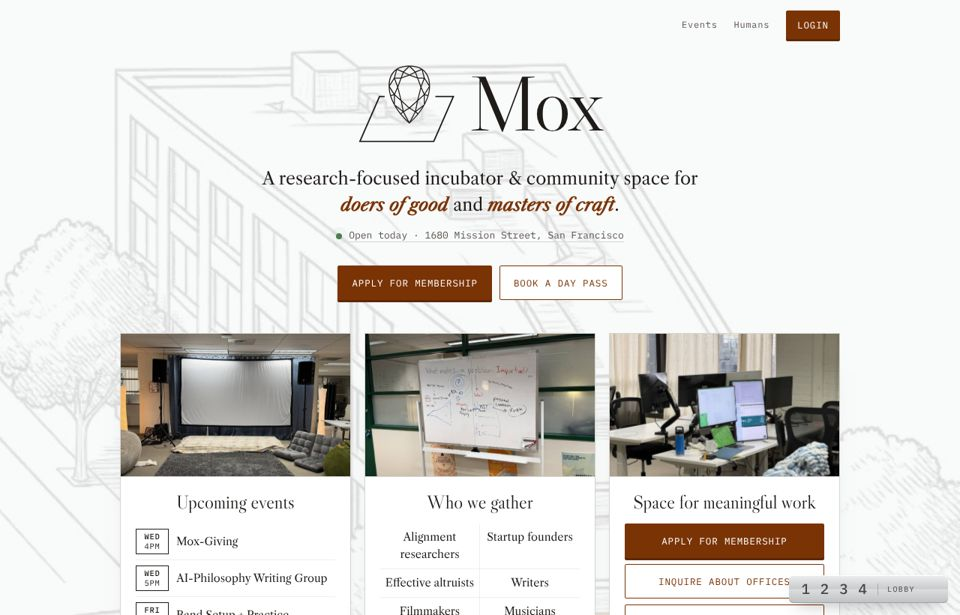
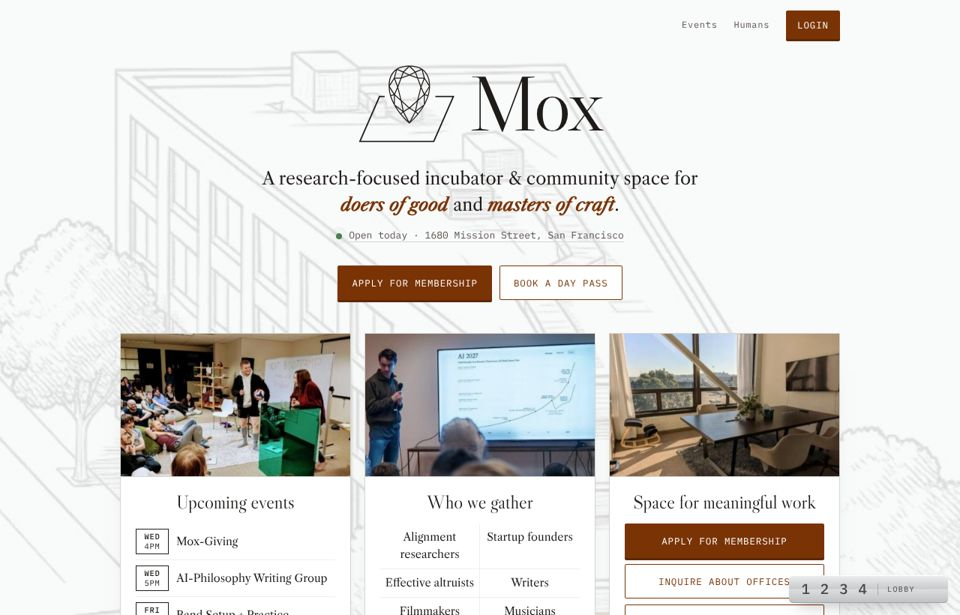
Use moxsf.com photos in the centered prototypes
Claude-Session: https://claude.ai/code/session_014nhnAVsdmvKJzBKS1wmyc7

Changed region(s): [[0.125, 0.5252, 0.875, 0.8033]]

diff --git a/prototypes/b2.html b/prototypes/b2.html
@@ -140,21 +140,21 @@ footer{text-align:center;padding-block:28px 40px;font-family:var(--mono);font-si
   <div class="col three">
     <article class="pnl">
       <div class="hd"><span class="screw"></span><span class="lab">P-01 · Events</span><span class="screw"></span></div>
-      <div class="bezel"><div class="win"><img src="img/screen.jpg" alt="The big room set up for a film night"></div></div>
+      <div class="bezel"><div class="win"><img src="img/site-014.jpg" alt="A talk in the lounge with people on bean bags and sofas"></div></div>
       <h3>Upcoming events</h3>
       <div class="board" id="board"></div>
       <div class="ft"><a class="key dark block" href="#"><span class="sh"></span><span class="ed"></span><span class="fc">All events →</span></a></div>
     </article>
     <article class="pnl">
       <div class="hd"><span class="screw"></span><span class="lab">P-02 · People</span><span class="screw"></span></div>
-      <div class="bezel"><div class="win"><img src="img/whiteboard.jpg" alt="Whiteboard asking what makes a problem important"></div></div>
+      <div class="bezel"><div class="win"><img src="img/site-023.jpg" alt="A speaker presenting a chart to an audience"></div></div>
       <h3>Who we gather</h3>
       <div class="caps"><span class="cap">Alignment research</span><span class="cap">Founders</span><span class="cap">Effective altruists</span><span class="cap">Writers</span><span class="cap">Filmmakers</span><span class="cap">Musicians</span><span class="cap">Hackers</span><span class="cap">Designers</span></div>
       <div class="ft"><a class="lnk" href="#humans">See people →</a></div>
     </article>
     <article class="pnl">
       <div class="hd"><span class="screw"></span><span class="lab">P-03 · Access</span><span class="screw"></span></div>
-      <div class="bezel"><div class="win"><img src="img/desks.jpg" alt="Desks with monitors by tall windows"></div></div>
+      <div class="bezel"><div class="win"><img src="img/site-003.jpg" alt="A meeting room with a view over the city"></div></div>
       <h3>Space for meaningful work</h3>
       <div class="stack">
         <a class="key orange block" href="#"><span class="sh"></span><span class="ed"></span><span class="fc">Apply for membership</span></a>
@@ -171,12 +171,12 @@ footer{text-align:center;padding-block:28px 40px;font-family:var(--mono);font-si
     <span class="idx">01 · THE SPACE</span>
     <h2>Four floors on Mission Street.</h2>
     <div class="sheet">
-      <figure><img src="img/door.jpg" alt="The gold doors of 1680 Mission"><figcaption><span>01A</span><span>Front door</span></figcaption></figure>
-      <figure><img src="img/lounge.jpg" alt="The lounge"><figcaption><span>02A</span><span>Lounge</span></figcaption></figure>
-      <figure><img src="img/screen.jpg" alt="The big room"><figcaption><span>03A</span><span>Big room</span></figcaption></figure>
-      <figure><img src="img/desks.jpg" alt="Desks"><figcaption><span>04A</span><span>Desks</span></figcaption></figure>
-      <figure><img src="img/frame.jpg" alt="Historic drawing of the building"><figcaption><span>05A</span><span>The building, then</span></figcaption></figure>
-      <figure><img src="img/stairs.jpg" alt="Stairwell"><figcaption><span>06A</span><span>Stair 2</span></figcaption></figure>
+      <figure><img src="img/site-024.jpg" alt="A crowded open floor during an event"><figcaption><span>01A</span><span>Open floor</span></figcaption></figure>
+      <figure><img src="img/site-006.jpg" alt="The lounge with plants and shelves"><figcaption><span>02A</span><span>Lounge</span></figcaption></figure>
+      <figure><img src="img/site-025.jpg" alt="A member and a kid playing a game on the floor"><figcaption><span>03A</span><span>Game day</span></figcaption></figure>
+      <figure><img src="img/site-005.jpg" alt="Rows of desks on the open floor"><figcaption><span>04A</span><span>Desks</span></figcaption></figure>
+      <figure><img src="img/site-009.jpg" alt="White chairs set up for a talk"><figcaption><span>05A</span><span>Talk setup</span></figcaption></figure>
+      <figure><img src="img/site-020.jpg" alt="Two people dancing on a rug"><figcaption><span>06A</span><span>After hours</span></figcaption></figure>
     </div>
     <div class="spec"><div><span class="lab">Members</span><b>215</b></div><div><span class="lab">Resident teams</span><b>21</b></div><div><span class="lab">Fellowships</span><b>4</b></div><div><span class="lab">Floors</span><b>4</b></div></div>
   </section>

diff --git a/prototypes/c2.html b/prototypes/c2.html
@@ -140,7 +140,7 @@ section h2 em{font-style:italic;color:var(--green)}
 
 <div class="col three" id="week">
   <article class="card">
-    <div class="print"><span class="tape" aria-hidden="true"></span><img src="img/screen.jpg" alt="The big room set up for a film night"></div>
+    <div class="print"><span class="tape" aria-hidden="true"></span><img src="img/site-014.jpg" alt="A talk in the lounge with people on bean bags and sofas"></div>
     <div class="b"><h3>Upcoming events</h3>
       <ul class="ev body">
         <li><span class="d">WED 4P</span>Mox-Giving</li>
@@ -152,13 +152,13 @@ section h2 em{font-style:italic;color:var(--green)}
       <div class="ft"><a href="#">All events →</a></div></div>
   </article>
   <article class="card">
-    <div class="print"><span class="tape" aria-hidden="true"></span><img src="img/lounge.jpg" alt="Lounge with low orange sofas"></div>
+    <div class="print"><span class="tape" aria-hidden="true"></span><img src="img/site-021.jpg" alt="Members making letters with their bodies in front of the green wall"></div>
     <div class="b"><h3>Who we gather</h3>
       <div class="pills body"><span>Alignment researchers</span><span>Startup founders</span><span>Effective altruists</span><span>Writers</span><span>Filmmakers</span><span>Musicians</span><span>Community builders</span><span>Hackers</span><span>Designers</span><span>Gamers</span></div>
       <div class="ft"><a href="#humans">See people →</a></div></div>
   </article>
   <article class="card">
-    <div class="print"><span class="tape" aria-hidden="true"></span><img src="img/door.jpg" alt="The gold front doors of 1680 Mission Street" style="object-position:center 60%"></div>
+    <div class="print"><span class="tape" aria-hidden="true"></span><img src="img/site-003.jpg" alt="A meeting room with a view over the city" ></div>
     <div class="b"><h3>Space for meaningful work</h3>
       <ol class="steps body">
         <li><a href="#"><b>1</b><span>Day pass<small>Try it for a day</small></span><em>→</em></a></li>
@@ -173,11 +173,11 @@ section h2 em{font-style:italic;color:var(--green)}
   <section>
     <div class="kick">What it's like</div>
     <p class="quote">“What makes a problem <span>important?</span>”</p>
-    <p class="sub">A question from one of our whiteboards. Mox is where alignment researchers, founders and writers think out loud together, and where the work is serious because the people care about getting it right.</p>
+    <p class="sub">A question from one of our whiteboards upstairs. Mox is where alignment researchers, founders and writers think out loud together, and where the work is serious because the people care about getting it right.</p>
     <div class="prints">
-      <figure><img src="img/whiteboard.jpg" alt="Whiteboard asking what makes a problem important"><figcaption>the whiteboard</figcaption></figure>
-      <figure><img src="img/desks.jpg" alt="Desks by the windows"><figcaption>desks by the windows</figcaption></figure>
-      <figure><img src="img/frame.jpg" alt="Framed historic drawing of the building"><figcaption>the building, long ago</figcaption></figure>
+      <figure><img src="img/site-026.jpg" alt="A reading group around a table on a colorful rug"><figcaption>a reading group</figcaption></figure>
+      <figure><img src="img/site-018.jpg" alt="Two members and a baby laughing"><figcaption>between meetings</figcaption></figure>
+      <figure><img src="img/site-016.jpg" alt="A member working in front of a projected screen"><figcaption>on the big screen</figcaption></figure>
     </div>
   </section>
 

diff --git a/prototypes/a2.html b/prototypes/a2.html
@@ -158,7 +158,7 @@ footer{border-top:1px solid var(--rule);padding-block:24px 90px;text-align:cente
 <div class="col">
   <div class="three" id="events">
     <article class="card">
-      <div class="ph"><img src="img/screen.jpg" alt="The big room set up for a film night"></div>
+      <div class="ph"><img src="img/site-014.jpg" alt="A talk in the lounge with people on bean bags and sofas"></div>
       <div class="b"><h3>Upcoming events</h3>
         <ul class="ev body">
           <li><span class="d"><b>WED</b>4PM</span>Mox-Giving</li>
@@ -170,13 +170,13 @@ footer{border-top:1px solid var(--rule);padding-block:24px 90px;text-align:cente
         <div class="foot"><a href="#">All events →</a></div></div>
     </article>
     <article class="card">
-      <div class="ph"><img src="img/whiteboard.jpg" alt="Whiteboard asking what makes a problem important" style="animation-delay:-9s"></div>
+      <div class="ph"><img src="img/site-023.jpg" alt="A speaker presenting a chart to an audience" style="animation-delay:-9s"></div>
       <div class="b"><h3>Who we gather</h3>
         <div class="who body"><span>Alignment researchers</span><span>Startup founders</span><span>Effective altruists</span><span>Writers</span><span>Filmmakers</span><span>Musicians</span><span>Community builders</span><span>Hackers</span><span>Designers</span><span>Gamers</span></div>
         <div class="foot"><a href="#humans">See people →</a></div></div>
     </article>
     <article class="card">
-      <div class="ph"><img src="img/desks.jpg" alt="Desks with monitors by tall curtained windows" style="animation-delay:-16s"></div>
+      <div class="ph"><img src="img/site-003.jpg" alt="A meeting room with a view over the city" style="animation-delay:-16s"></div>
       <div class="b"><h3>Space for meaningful work</h3>
         <div class="ways body">
           <a class="btn solid" href="#">Apply for membership</a>
@@ -194,13 +194,14 @@ footer{border-top:1px solid var(--rule);padding-block:24px 90px;text-align:cente
   <section id="space" data-floor="1" data-name="The space">
     <span class="floor"><b>1</b>The space</span>
     <h2>Four floors on Mission Street.</h2>
-    <p class="sub">Desks by the windows, a lounge, rooms for focus, and a big room for talks and film nights.</p>
+    <p class="sub">Desks by the windows, a lounge, rooms for focus, and big rooms for talks, workshops and parties.</p>
     <div class="photos">
-      <figure class="tall"><img src="img/door.jpg" alt="The gold front doors of 1680 Mission Street"></figure>
-      <figure><img src="img/lounge.jpg" alt="Lounge with low orange sofas"></figure>
-      <figure><img src="img/screen.jpg" alt="The big room"></figure>
-      <figure><img src="img/frame.jpg" alt="Framed historic drawing of the building"></figure>
-      <figure><img src="img/stairs.jpg" alt="Stairwell to the third floor"></figure>
+      <figure ><img src="img/site-021.jpg" alt="Members making letters with their bodies in front of the green wall"></figure>
+      <figure><img src="img/site-002.jpg" alt="The lounge with grey sofas"></figure>
+      <figure><img src="img/site-026.jpg" alt="A reading group around a table on a colorful rug"></figure>
+      <figure><img src="img/site-007.jpg" alt="Wooden tables by sunny windows"></figure>
+      <figure><img src="img/site-018.jpg" alt="Two members and a baby laughing"></figure>
+      <figure><img src="img/site-009.jpg" alt="Rows of white chairs set up for a talk"></figure>
     </div>
   </section>
 

diff --git a/prototypes/index.html b/prototypes/index.html
@@ -48,7 +48,7 @@ dd{margin:0}
   <p class="lede">Each direction is a working homepage built from the mood board palette, real Mox photos and the current site's content. They share the same structure and fixes. They differ in personality. Open each one, scroll it, press things.</p>
 
   <div class="eye" style="margin-top:40px;color:var(--rust)">Round 2 · centered, like today's moxsf.com</div>
-  <p class="lede" style="margin-top:8px">Same three personalities, rebuilt around the current site's centered column: the big Mox lockup over the building drawing, the tagline with its italic emphasis, and the three-card row (events, who we gather, space for meaningful work). The cards now share one size and one accent color.</p>
+  <p class="lede" style="margin-top:8px">Same three personalities, rebuilt around the current site's centered column: the big Mox lockup over the building drawing, the tagline with its italic emphasis, and the three-card row (events, who we gather, space for meaningful work). The cards now share one size and one accent color, and every photo comes from today's moxsf.com.</p>
   <div class="grid" style="margin-top:22px">
     <article class="card">
       <a class="shot" href="a2.html" aria-label="Open A2"><img src="img/thumb-a2.jpg" alt="A2: centered Mox lockup over the building drawing with three equal cards"></a>
